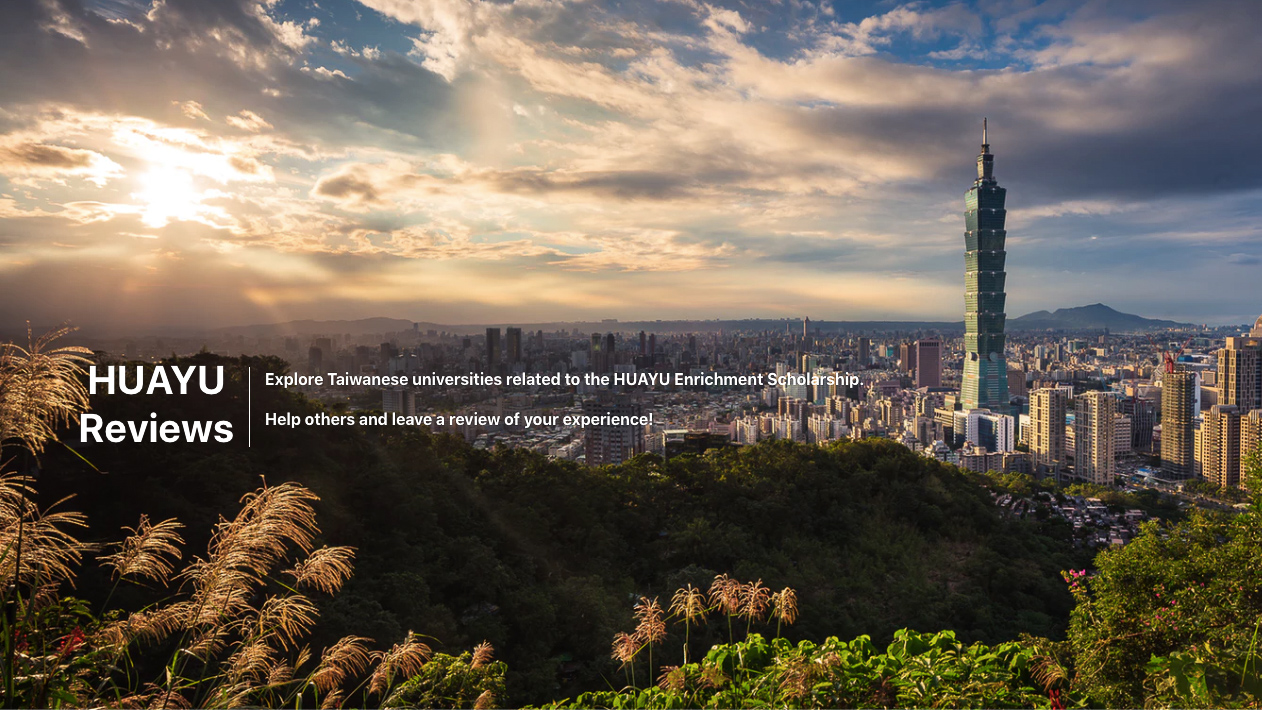
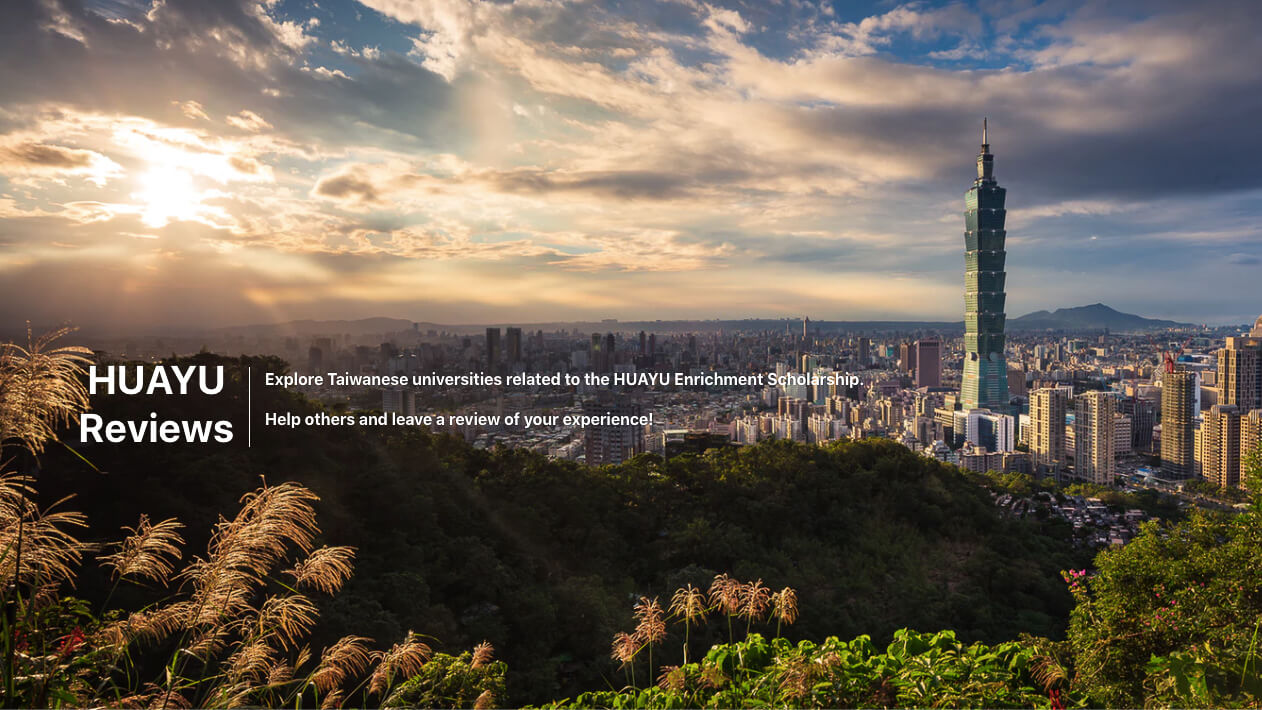
img compress

Changed region(s): [[0.9889, 0.9915, 1.0, 1.0]]

diff --git a/index.html b/index.html
@@ -144,6 +144,20 @@
                     <div class="container">
                         <div class="content">
                             <div class="content-overlay"></div>
+                            <img class="content-image" src="/images/codeop.jpg" alt="CodeOp logo">
+                            <div class="content-details fadeIn-bottom">
+                                <h4 class="content-title">CodeOp</h4>
+                                <p class="content-text">WordPress (site expansion)</p>
+                            <a href="http://codeop.tech" aria-label="Visit the website" target="_blank"><p class="content-text">See live</p></a>
+                            </div>
+                        </div>
+                    </div>
+                </article>  
+
+                <article>
+                    <div class="container">
+                        <div class="content">
+                            <div class="content-overlay"></div>
                             <img class="content-image" src="/images/simonacellar.jpg" alt="Simona Cellar logo">
                             <div class="content-details fadeIn-bottom">
                                 <h4 class="content-title">Simona Cellar</h4>
@@ -154,19 +168,7 @@
                     </div>
                 </article>                
     
-                <article>
-                    <div class="container">
-                        <div class="content">
-                            <div class="content-overlay"></div>
-                            <img class="content-image" src="/images/codeop.jpg" alt="CodeOp logo">
-                            <div class="content-details fadeIn-bottom">
-                                <h4 class="content-title">CodeOp</h4>
-                                <p class="content-text">WordPress (site expansion)</p>
-                            <a href="http://codeop.tech" aria-label="Visit the website" target="_blank"><p class="content-text">See live</p></a>
-                            </div>
-                        </div>
-                    </div>
-                </article>  
+
 
                 <article>
                     <div class="container">
@@ -186,11 +188,11 @@
                     <div class="container">
                         <div class="content">
                             <div class="content-overlay"></div>
-                            <img class="content-image" src="/images/maestro organillero.jpg" alt="Maestro Organillero logo">
+                            <img class="content-image" src="/images/nakedwines.jpg" alt="Wild Cookie">
                             <div class="content-details fadeIn-bottom">
-                                <h4 class="content-title">Kombucha Maestro Organillero</h4>
-                                <p class="content-text">html / css / jQuery</p>
-                            <p class="content-text">Coming Soon</p>
+                                <h4 class="content-title">Wild Cookie</h4>
+                                <p class="content-text">html / css / Wix</p>
+                                <a href="https://wildcookie.eu/" aria-label="Visit the website" target="_blank"><p class="content-text">See live</p></a>
                             </div>
                         </div>
                     </div>
